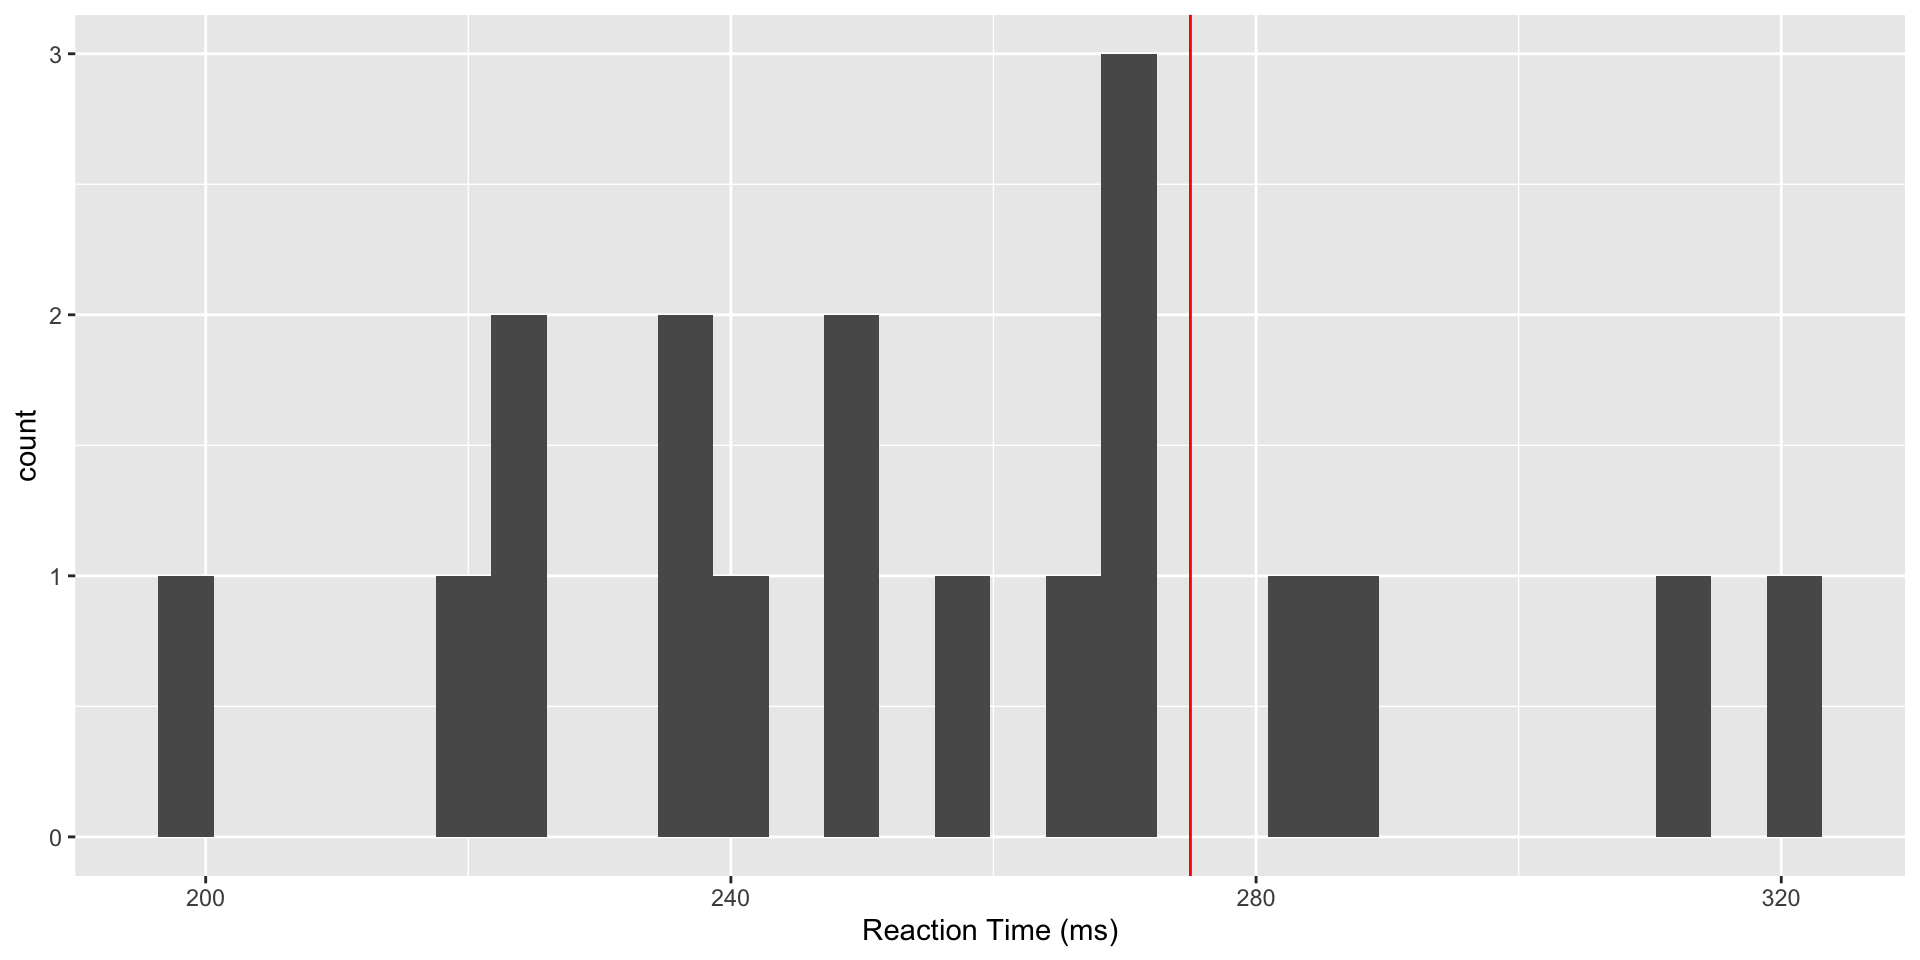
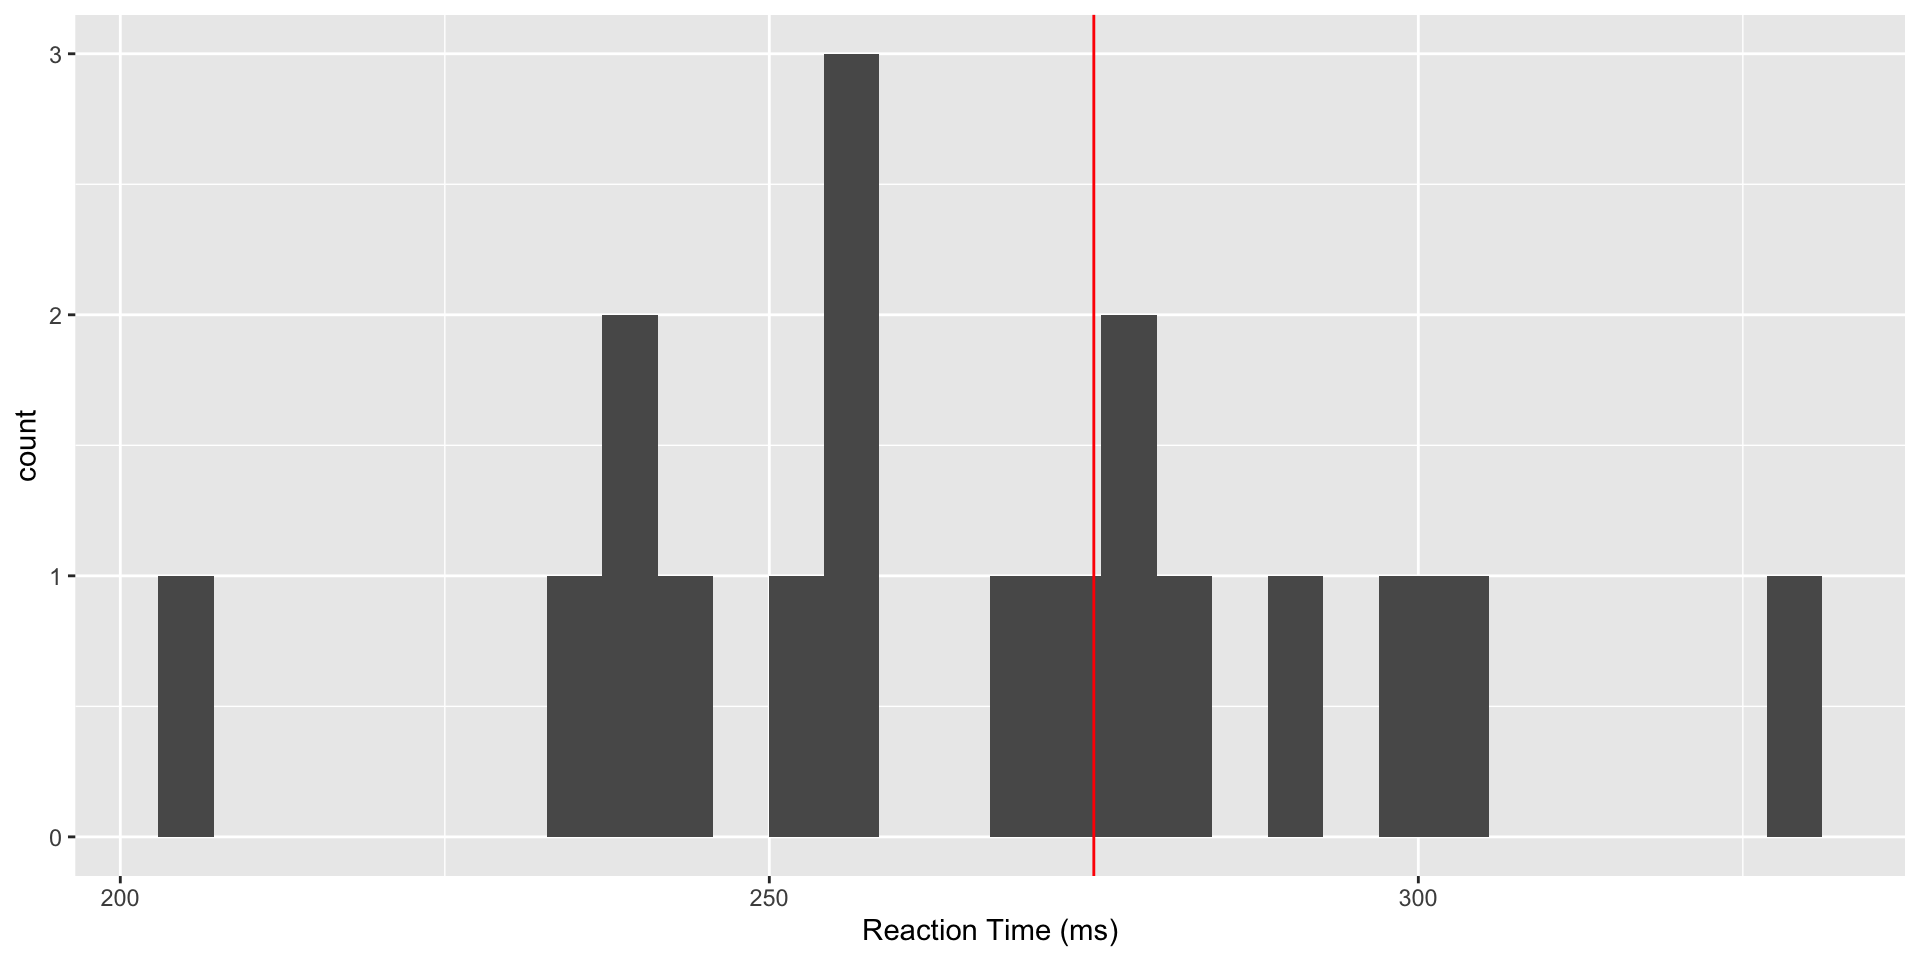
updating day 3

diff --git a/day-3-posterior/2-lec-posterior-analysis/2-lec-posterior-analysis.html b/day-3-posterior/2-lec-posterior-analysis/2-lec-posterior-analysis.html
@@ -28,6 +28,71 @@
       margin: 0 0.8em 0.2em -1em; /* quarto-specific, see https://github.com/quarto-dev/quarto-cli/issues/4556 */ 
       vertical-align: middle;
     }
+    /* CSS for syntax highlighting */
+    pre > code.sourceCode { white-space: pre; position: relative; }
+    pre > code.sourceCode > span { display: inline-block; line-height: 1.25; }
+    pre > code.sourceCode > span:empty { height: 1.2em; }
+    .sourceCode { overflow: visible; }
+    code.sourceCode > span { color: inherit; text-decoration: inherit; }
+    div.sourceCode { margin: 1em 0; }
+    pre.sourceCode { margin: 0; }
+    @media screen {
+    div.sourceCode { overflow: auto; }
+    }
+    @media print {
+    pre > code.sourceCode { white-space: pre-wrap; }
+    pre > code.sourceCode > span { text-indent: -5em; padding-left: 5em; }
+    }
+    pre.numberSource code
+      { counter-reset: source-line 0; }
+    pre.numberSource code > span
+      { position: relative; left: -4em; counter-increment: source-line; }
+    pre.numberSource code > span > a:first-child::before
+      { content: counter(source-line);
+        position: relative; left: -1em; text-align: right; vertical-align: baseline;
+        border: none; display: inline-block;
+        -webkit-touch-callout: none; -webkit-user-select: none;
+        -khtml-user-select: none; -moz-user-select: none;
+        -ms-user-select: none; user-select: none;
+        padding: 0 4px; width: 4em;
+        color: #aaaaaa;
+      }
+    pre.numberSource { margin-left: 3em; border-left: 1px solid #aaaaaa;  padding-left: 4px; }
+    div.sourceCode
+      { color: #003b4f; background-color: #f1f3f5; }
+    @media screen {
+    pre > code.sourceCode > span > a:first-child::before { text-decoration: underline; }
+    }
+    code span { color: #003b4f; } /* Normal */
+    code span.al { color: #ad0000; } /* Alert */
+    code span.an { color: #5e5e5e; } /* Annotation */
+    code span.at { color: #657422; } /* Attribute */
+    code span.bn { color: #ad0000; } /* BaseN */
+    code span.bu { } /* BuiltIn */
+    code span.cf { color: #003b4f; } /* ControlFlow */
+    code span.ch { color: #20794d; } /* Char */
+    code span.cn { color: #8f5902; } /* Constant */
+    code span.co { color: #5e5e5e; } /* Comment */
+    code span.cv { color: #5e5e5e; font-style: italic; } /* CommentVar */
+    code span.do { color: #5e5e5e; font-style: italic; } /* Documentation */
+    code span.dt { color: #ad0000; } /* DataType */
+    code span.dv { color: #ad0000; } /* DecVal */
+    code span.er { color: #ad0000; } /* Error */
+    code span.ex { } /* Extension */
+    code span.fl { color: #ad0000; } /* Float */
+    code span.fu { color: #4758ab; } /* Function */
+    code span.im { color: #00769e; } /* Import */
+    code span.in { color: #5e5e5e; } /* Information */
+    code span.kw { color: #003b4f; } /* Keyword */
+    code span.op { color: #5e5e5e; } /* Operator */
+    code span.ot { color: #003b4f; } /* Other */
+    code span.pp { color: #ad0000; } /* Preprocessor */
+    code span.sc { color: #5e5e5e; } /* SpecialChar */
+    code span.ss { color: #20794d; } /* SpecialString */
+    code span.st { color: #20794d; } /* String */
+    code span.va { color: #111111; } /* Variable */
+    code span.vs { color: #20794d; } /* VerbatimString */
+    code span.wa { color: #5e5e5e; font-style: italic; } /* Warning */
   </style>
   <link rel="stylesheet" href="2-lec-posterior-analysis_files/libs/revealjs/dist/theme/quarto.css">
   <link href="2-lec-posterior-analysis_files/libs/revealjs/plugin/quarto-line-highlight/line-highlight.css" rel="stylesheet">
@@ -337,12 +402,40 @@
 </section>
 <section id="reaction-time-data" class="slide level2">
 <h2>Reaction Time Data</h2>
-
-<img data-src="2-lec-posterior-analysis_files/figure-revealjs/unnamed-chunk-1-1.png" width="960" class="r-stretch"></section>
+<div class="panel-tabset">
+<ul id="tabset-1" class="panel-tabset-tabby"><li><a data-tabby-default="" href="#tabset-1-1">Code</a></li><li><a href="#tabset-1-2">Plot</a></li></ul>
+<div class="tab-content">
+<div id="tabset-1-1">
+<div class="cell">
+<div class="sourceCode cell-code" id="cb1"><pre class="sourceCode numberSource markdown number-lines code-with-copy"><code class="sourceCode markdown"><span id="cb1-1"><a href="#cb1-1"></a><span class="in">```{r}</span></span>
+<span id="cb1-2"><a href="#cb1-2"></a><span class="co">#| eval: false</span></span>
+<span id="cb1-3"><a href="#cb1-3"></a><span class="fu">library</span>(lme4)</span>
+<span id="cb1-4"><a href="#cb1-4"></a><span class="fu">library</span>(tidyverse)</span>
+<span id="cb1-5"><a href="#cb1-5"></a><span class="fu">data</span>(sleepstudy)</span>
+<span id="cb1-6"><a href="#cb1-6"></a>baseline <span class="ot">&lt;-</span> sleepstudy <span class="sc">%&gt;%</span></span>
+<span id="cb1-7"><a href="#cb1-7"></a>  <span class="fu">filter</span>(Days<span class="sc">==</span><span class="dv">2</span>) <span class="co"># Day 2 is baseline, days 0-1 are training</span></span>
+<span id="cb1-8"><a href="#cb1-8"></a>baseline <span class="sc">%&gt;%</span></span>
+<span id="cb1-9"><a href="#cb1-9"></a>  <span class="fu">ggplot</span>(<span class="fu">aes</span>(<span class="at">x=</span>Reaction)) <span class="sc">+</span></span>
+<span id="cb1-10"><a href="#cb1-10"></a>  <span class="fu">geom_histogram</span>() <span class="sc">+</span> </span>
+<span id="cb1-11"><a href="#cb1-11"></a>  <span class="fu">labs</span>(<span class="at">x=</span><span class="st">"Reaction Time (ms)"</span>) <span class="sc">+</span> </span>
+<span id="cb1-12"><a href="#cb1-12"></a>  <span class="fu">geom_vline</span>(<span class="at">xintercept=</span><span class="dv">275</span>, <span class="at">col=</span><span class="st">"red"</span>)</span>
+<span id="cb1-13"><a href="#cb1-13"></a><span class="in">```</span></span></code><button title="Copy to Clipboard" class="code-copy-button"><i class="bi"></i></button></pre></div>
+</div>
+</div>
+<div id="tabset-1-2">
+<div class="cell">
+<div class="cell-output-display">
+<p><img data-src="2-lec-posterior-analysis_files/figure-revealjs/unnamed-chunk-2-1.png" width="960"></p>
+</div>
+</div>
+</div>
+</div>
+</div>
+</section>
 <section id="analysis-of-reaction-time" class="slide level2">
 <h2>Analysis of Reaction Time</h2>
 <p>We can use the R brms() function to analyze the data. One advantage of this function is that it allows us easily to implement more complex sampling algorithms, beyond Gibbs sampling.</p>
-<p>Suppose our data model is <span class="math display">\[Y \sim N(\mu, \sigma^2).\]</span> We previously studied the conjugate normal-inverse gamma specification, given by <span class="math display">\[\mu \mid \sigma^2 \sim N\bigg(\theta,\frac{\sigma^2}{n_0}\bigg)\]</span> and <span class="math display">\[\frac{1}{\sigma^2} \sim \text{gamma}\bigg(\frac{\nu_0}{2},\frac{\nu_0\sigma^2_0}{2}\bigg).\]</span> While this prior has a nice interpretation in terms of prior sample sizes, it’s not the only option.</p>
+<p>Suppose our data model is <span class="math display">\[Y \sim N(\mu, \sigma^2).\]</span> We previously studied the conjugate normal-inverse gamma specification, given by <span class="math display">\[\mu \mid \sigma^2 \sim N\bigg(\theta,\frac{\sigma^2}{n_0}\bigg), ~~~\frac{1}{\sigma^2} \sim \text{gamma}\bigg(\frac{\nu_0}{2},\frac{\nu_0\sigma^2_0}{2}\bigg).\]</span> While this prior has a nice interpretation in terms of prior samples, it’s not the only option.</p>
 </section>
 <section id="prior-for-the-mean" class="slide level2">
 <h2>Prior for the Mean</h2>
@@ -352,119 +445,35 @@
 <h2>Prior for the Standard Deviation</h2>
 <p>We will specify a prior directly on the standard deviation <span class="math inline">\(\sigma\)</span> as <span class="math inline">\(\sigma \sim \text{HalfCauchy}(0,40)\)</span>, which has mean 0 and scale parameter 40 and is called “half” because only the positive values are used. If you haven’t seen the Cauchy distribution, it’s a special case of a t distribution with 1 degree of freedom, and it’s nice because it has fat tails and allows substantial mass away from its mean. We plot it here.</p>
 
-<img data-src="2-lec-posterior-analysis_files/figure-revealjs/unnamed-chunk-2-1.png" width="960" class="r-stretch"></section>
-<section id="section" class="slide level2">
-<h2></h2>
-<div class="cell" data-hash="2-lec-posterior-analysis_cache/revealjs/runmod_2096d8dc78091e30e0b9fa993015bf91">
-<div class="cell-output cell-output-stdout">
-<pre><code>
-SAMPLING FOR MODEL 'ff6f0600bb506a46491e0682891f6faf' NOW (CHAIN 1).
-Chain 1: 
-Chain 1: Gradient evaluation took 8e-06 seconds
-Chain 1: 1000 transitions using 10 leapfrog steps per transition would take 0.08 seconds.
-Chain 1: Adjust your expectations accordingly!
-Chain 1: 
-Chain 1: 
-Chain 1: Iteration:    1 / 2000 [  0%]  (Warmup)
-Chain 1: Iteration:  200 / 2000 [ 10%]  (Warmup)
-Chain 1: Iteration:  400 / 2000 [ 20%]  (Warmup)
-Chain 1: Iteration:  600 / 2000 [ 30%]  (Warmup)
-Chain 1: Iteration:  800 / 2000 [ 40%]  (Warmup)
-Chain 1: Iteration: 1000 / 2000 [ 50%]  (Warmup)
-Chain 1: Iteration: 1001 / 2000 [ 50%]  (Sampling)
-Chain 1: Iteration: 1200 / 2000 [ 60%]  (Sampling)
-Chain 1: Iteration: 1400 / 2000 [ 70%]  (Sampling)
-Chain 1: Iteration: 1600 / 2000 [ 80%]  (Sampling)
-Chain 1: Iteration: 1800 / 2000 [ 90%]  (Sampling)
-Chain 1: Iteration: 2000 / 2000 [100%]  (Sampling)
-Chain 1: 
-Chain 1:  Elapsed Time: 0.01562 seconds (Warm-up)
-Chain 1:                0.008652 seconds (Sampling)
-Chain 1:                0.024272 seconds (Total)
-Chain 1: 
-
-SAMPLING FOR MODEL 'ff6f0600bb506a46491e0682891f6faf' NOW (CHAIN 2).
-Chain 2: 
-Chain 2: Gradient evaluation took 2e-06 seconds
-Chain 2: 1000 transitions using 10 leapfrog steps per transition would take 0.02 seconds.
-Chain 2: Adjust your expectations accordingly!
-Chain 2: 
-Chain 2: 
-Chain 2: Iteration:    1 / 2000 [  0%]  (Warmup)
-Chain 2: Iteration:  200 / 2000 [ 10%]  (Warmup)
-Chain 2: Iteration:  400 / 2000 [ 20%]  (Warmup)
-Chain 2: Iteration:  600 / 2000 [ 30%]  (Warmup)
-Chain 2: Iteration:  800 / 2000 [ 40%]  (Warmup)
-Chain 2: Iteration: 1000 / 2000 [ 50%]  (Warmup)
-Chain 2: Iteration: 1001 / 2000 [ 50%]  (Sampling)
-Chain 2: Iteration: 1200 / 2000 [ 60%]  (Sampling)
-Chain 2: Iteration: 1400 / 2000 [ 70%]  (Sampling)
-Chain 2: Iteration: 1600 / 2000 [ 80%]  (Sampling)
-Chain 2: Iteration: 1800 / 2000 [ 90%]  (Sampling)
-Chain 2: Iteration: 2000 / 2000 [100%]  (Sampling)
-Chain 2: 
-Chain 2:  Elapsed Time: 0.014936 seconds (Warm-up)
-Chain 2:                0.008264 seconds (Sampling)
-Chain 2:                0.0232 seconds (Total)
-Chain 2: 
-
-SAMPLING FOR MODEL 'ff6f0600bb506a46491e0682891f6faf' NOW (CHAIN 3).
-Chain 3: 
-Chain 3: Gradient evaluation took 2e-06 seconds
-Chain 3: 1000 transitions using 10 leapfrog steps per transition would take 0.02 seconds.
-Chain 3: Adjust your expectations accordingly!
-Chain 3: 
-Chain 3: 
-Chain 3: Iteration:    1 / 2000 [  0%]  (Warmup)
-Chain 3: Iteration:  200 / 2000 [ 10%]  (Warmup)
-Chain 3: Iteration:  400 / 2000 [ 20%]  (Warmup)
-Chain 3: Iteration:  600 / 2000 [ 30%]  (Warmup)
-Chain 3: Iteration:  800 / 2000 [ 40%]  (Warmup)
-Chain 3: Iteration: 1000 / 2000 [ 50%]  (Warmup)
-Chain 3: Iteration: 1001 / 2000 [ 50%]  (Sampling)
-Chain 3: Iteration: 1200 / 2000 [ 60%]  (Sampling)
-Chain 3: Iteration: 1400 / 2000 [ 70%]  (Sampling)
-Chain 3: Iteration: 1600 / 2000 [ 80%]  (Sampling)
-Chain 3: Iteration: 1800 / 2000 [ 90%]  (Sampling)
-Chain 3: Iteration: 2000 / 2000 [100%]  (Sampling)
-Chain 3: 
-Chain 3:  Elapsed Time: 0.013523 seconds (Warm-up)
-Chain 3:                0.008262 seconds (Sampling)
-Chain 3:                0.021785 seconds (Total)
-Chain 3: 
-
-SAMPLING FOR MODEL 'ff6f0600bb506a46491e0682891f6faf' NOW (CHAIN 4).
-Chain 4: 
-Chain 4: Gradient evaluation took 2e-06 seconds
-Chain 4: 1000 transitions using 10 leapfrog steps per transition would take 0.02 seconds.
-Chain 4: Adjust your expectations accordingly!
-Chain 4: 
-Chain 4: 
-Chain 4: Iteration:    1 / 2000 [  0%]  (Warmup)
-Chain 4: Iteration:  200 / 2000 [ 10%]  (Warmup)
-Chain 4: Iteration:  400 / 2000 [ 20%]  (Warmup)
-Chain 4: Iteration:  600 / 2000 [ 30%]  (Warmup)
-Chain 4: Iteration:  800 / 2000 [ 40%]  (Warmup)
-Chain 4: Iteration: 1000 / 2000 [ 50%]  (Warmup)
-Chain 4: Iteration: 1001 / 2000 [ 50%]  (Sampling)
-Chain 4: Iteration: 1200 / 2000 [ 60%]  (Sampling)
-Chain 4: Iteration: 1400 / 2000 [ 70%]  (Sampling)
-Chain 4: Iteration: 1600 / 2000 [ 80%]  (Sampling)
-Chain 4: Iteration: 1800 / 2000 [ 90%]  (Sampling)
-Chain 4: Iteration: 2000 / 2000 [100%]  (Sampling)
-Chain 4: 
-Chain 4:  Elapsed Time: 0.013 seconds (Warm-up)
-Chain 4:                0.009505 seconds (Sampling)
-Chain 4:                0.022505 seconds (Total)
-Chain 4: </code></pre>
-</div>
-</div>
+<img data-src="2-lec-posterior-analysis_files/figure-revealjs/unnamed-chunk-3-1.png" width="960" class="r-stretch"></section>
+<section id="code-to-fit-model" class="slide level2">
+<h2>Code to Fit Model</h2>
 </section>
 <section id="checking-the-output" class="slide level2">
 <h2>Checking the Output</h2>
-<p>Trace plots can be used to check convergence. We also can check the <span class="math inline">\(\hat{R}\)</span> values.</p>
+<p>Trace plots can be used to check convergence.</p>
+<div class="panel-tabset">
+<ul id="tabset-2" class="panel-tabset-tabby"><li><a data-tabby-default="" href="#tabset-2-1">Code</a></li><li><a href="#tabset-2-2">Plots</a></li></ul>
+<div class="tab-content">
+<div id="tabset-2-1">
 <div class="cell">
-
+<div class="sourceCode cell-code" id="cb2"><pre class="sourceCode numberSource r number-lines code-with-copy"><code class="sourceCode r"><span id="cb2-1"><a href="#cb2-1"></a><span class="fu">plot</span>(fit) <span class="co"># show posteriors and trace plots</span></span></code><button title="Copy to Clipboard" class="code-copy-button"><i class="bi"></i></button></pre></div>
+</div>
+</div>
+<div id="tabset-2-2">
+<div class="cell">
+<div class="cell-output-display">
+<p><img data-src="2-lec-posterior-analysis_files/figure-revealjs/unnamed-chunk-5-1.png" width="960"></p>
+</div>
+</div>
+</div>
+</div>
+</div>
+</section>
+<section id="checking-the-output-1" class="slide level2">
+<h2>Checking the Output</h2>
+<p>We also can check the <span class="math inline">\(\hat{R}\)</span> values.</p>
+<div class="cell">
 <div class="cell-output cell-output-stdout">
 <pre><code> Family: gaussian 
   Links: mu = identity; sigma = identity 
@@ -475,37 +484,51 @@ Formula: Reaction ~ 1
 
 Population-Level Effects: 
           Estimate Est.Error l-95% CI u-95% CI Rhat Bulk_ESS Tail_ESS
-Intercept   257.76      7.81   242.43   273.42 1.00     2810     2131
+Intercept   266.20      7.31   252.00   280.51 1.00     2477     2059
 
 Family Specific Parameters: 
       Estimate Est.Error l-95% CI u-95% CI Rhat Bulk_ESS Tail_ESS
-sigma    33.64      6.10    23.81    47.64 1.00     2260     1945
+sigma    31.18      5.60    22.40    44.44 1.00     2938     2434
 
 Draws were sampled using sampling(NUTS). For each parameter, Bulk_ESS
 and Tail_ESS are effective sample size measures, and Rhat is the potential
 scale reduction factor on split chains (at convergence, Rhat = 1).</code></pre>
 </div>
 </div>
-<img data-src="2-lec-posterior-analysis_files/figure-revealjs/unnamed-chunk-3-1.png" width="960" class="r-stretch"></section>
+</section>
 <section id="evaluating-our-hypothesis" class="slide level2">
 <h2>Evaluating Our Hypothesis</h2>
 <p>Examining the posterior distribution for <span class="math inline">\(\mu\)</span>, we see that most of its mass is below the value 275. We can easily calculate the posterior probability that <span class="math inline">\(\mu&lt;275\)</span> by taking the fraction of posterior samples that are less than 275.</p>
+<div class="sourceCode" id="cb4"><pre class="sourceCode numberSource r number-lines code-with-copy"><code class="sourceCode r"><span id="cb4-1"><a href="#cb4-1"></a><span class="fu">mean</span>(<span class="fu">as_draws_df</span>(fit)<span class="sc">$</span>b_Intercept<span class="sc">&lt;</span><span class="dv">275</span>)</span></code><button title="Copy to Clipboard" class="code-copy-button"><i class="bi"></i></button></pre></div>
 <div class="cell">
 <div class="cell-output cell-output-stdout">
-<pre><code>[1] 0.98425</code></pre>
+<pre><code>[1] 0.88425</code></pre>
 </div>
 </div>
-<p>So the posterior probability that <span class="math inline">\(\mu&lt;275\)</span> is 0.98425.</p>
+<p>So the posterior probability that <span class="math inline">\(\mu&lt;275\)</span> is 0.88425.</p>
 </section>
 <section id="evaluating-our-hypothesis-1" class="slide level2">
 <h2>Evaluating Our Hypothesis</h2>
-<p>We can also use the 95% credible interval for <span class="math inline">\(\mu\)</span>, given by (242.43,273.42) and note that 275 is outside this credible interval.</p>
+<p>We can also use the 95% credible interval for <span class="math inline">\(\mu\)</span>, given by (252,280.51) and note that 275 is inside this credible interval.</p>
 </section>
 <section id="you-try-it" class="slide level2">
 <h2>You Try It!</h2>
 <p>The priors specified are not very informative. Try making the priors more informative and running the code on your own to see how the results are affected!</p>
 <p>For example, you can - make the variance on the normal prior much smaller - make the scale on the half Cauchy prior much smaller</p>
 <p>Try changing just one aspect of the prior at a time to evaluate robustness.</p>
+</section>
+<section id="changes-in-reaction-time-with-sleep-deprivation" class="slide level2">
+<h2>Changes in Reaction Time with Sleep Deprivation</h2>
+<p>Now that we’ve explored baseline reaction time, let’s see what happens to the reaction times of study participants after one night of sleep deprivation (only 3 hours of time in bed). First, we will do a little data wrangling and make a plot for each subject of the change in reaction time, plotting the sleep deprived reaction time minus the baseline reaction time.</p>
+</section>
+<section id="changes-in-reaction-time-with-sleep-deprivation-1" class="slide level2">
+<h2>Changes in Reaction Time with Sleep Deprivation</h2>
+
+<img data-src="2-lec-posterior-analysis_files/figure-revealjs/unnamed-chunk-9-1.png" width="960" class="r-stretch"><p>We see that reaction times tend to be longer when participants have been sleep deprived.</p>
+</section>
+<section id="you-try-it-1" class="slide level2">
+<h2>You Try It!</h2>
+<p>Using the previous slides as a guide, evaluate the hypothesis that sleep deprivation increases reaction time.</p>
 
 <img src="https://www.stat.uci.edu/bayes-bats/img/logo.png" class="slide-logo r-stretch"><div class="footer footer-default">
 
